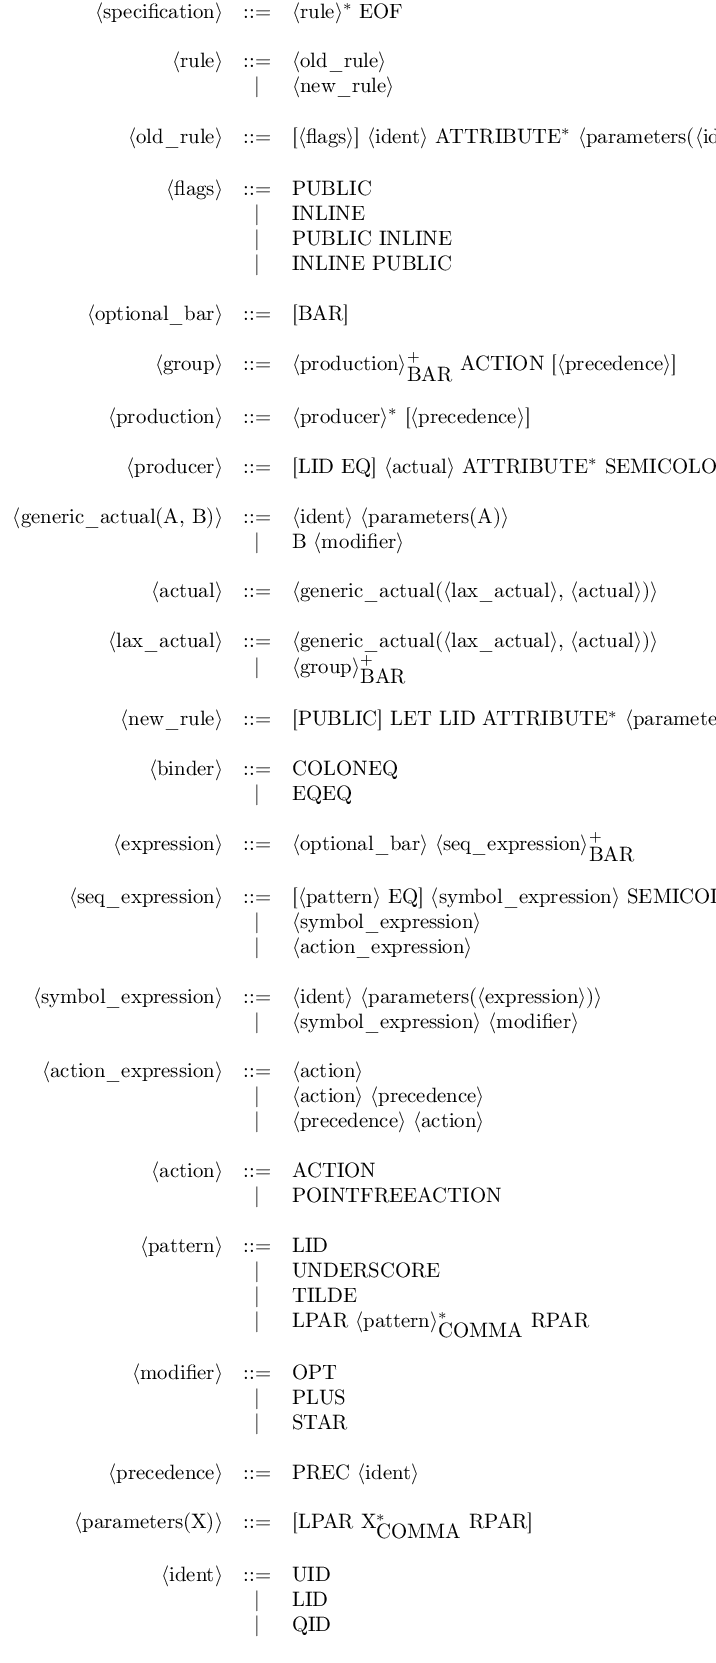
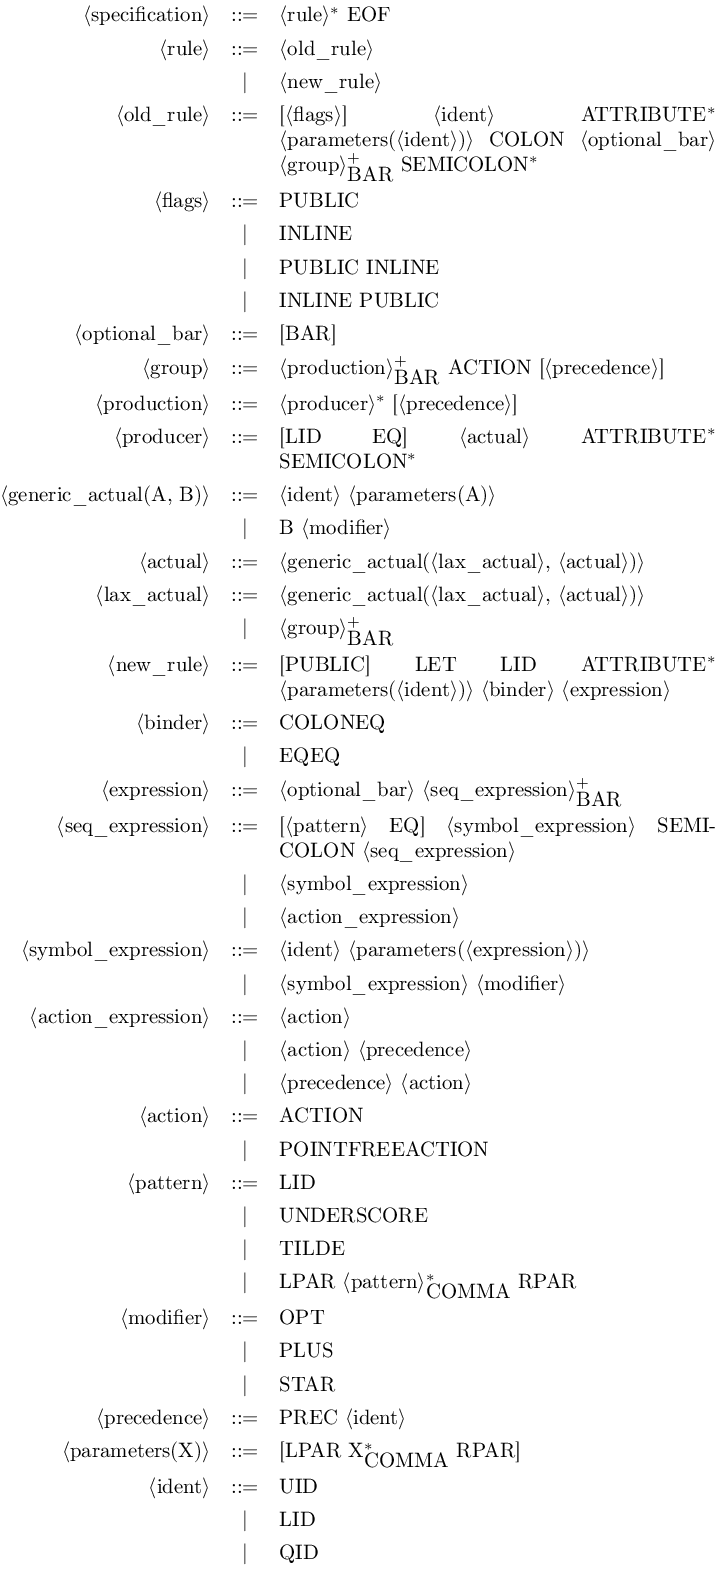
support `simplebnf`

diff --git a/README.md b/README.md
@@ -15,9 +15,8 @@ The Makefile also uses [imagemagick] and [wkhtmltopdf] to build documentation im
 
 In addition to the package [suffix], which is used to define starred commands, here is a summary of package dependencies for the different LaTeX modes: 
 
-- `-tabular` :
-  + [tabu]
-  + [longtable] as a dependency of [tabu] to use the environment `longtabu` 
+- `-tabular` : [tabularray]
+- `-simplebnf` : [simplebnf]
 - `-syntax` : [syntax] from the bundle [mdwtools] 
 - `-backnaur` : [backnaur]
 
@@ -347,6 +346,9 @@ parameters_2 ::= (LPAR (expression (COMMA expression)*)? RPAR)?
 ##### Tabular
 ![Tabular](misc/tabular.png)
 
+##### Simplebnf
+![Simplebnf](misc/simplebnf.png)
+
 ##### Syntax
 ![Syntax](misc/syntax.png)
 
@@ -370,8 +372,8 @@ parameters_2 ::= (LPAR (expression (COMMA expression)*)? RPAR)?
 [wkhtmltopdf]: https://wkhtmltopdf.org/
 [imagemagick]: http://www.imagemagick.org/script/index.php
 [suffix]: https://ctan.org/pkg/suffix
-[tabu]: https://www.ctan.org/pkg/tabu
-[longtable]: https://www.ctan.org/pkg/longtable
+[tabularray]: https://www.ctan.org/pkg/tabularray
 [mdwtools]: https://www.ctan.org/pkg/mdwtools
+[simplebnf]: https://www.ctan.org/pkg/simplebnf
 [syntax]: https://www.ctan.org/pkg/syntax-mdw
 [backnaur]: https://www.ctan.org/pkg/backnaur

diff --git a/CHANGES.md b/CHANGES.md
@@ -1,5 +1,8 @@
 ## WIP
 - add lower bound for Menhir version
+- update LaTeX backends 
+- LaTeX tabular mode now uses `tabularray`
+- add a new LaTeX mode using `simplebnf`
 
 ## v0.7.0 - 2024-07-03
 - support for EBNF output ([#14](https://github.com/Lelio-Brun/Obelisk/issues/14)) 
